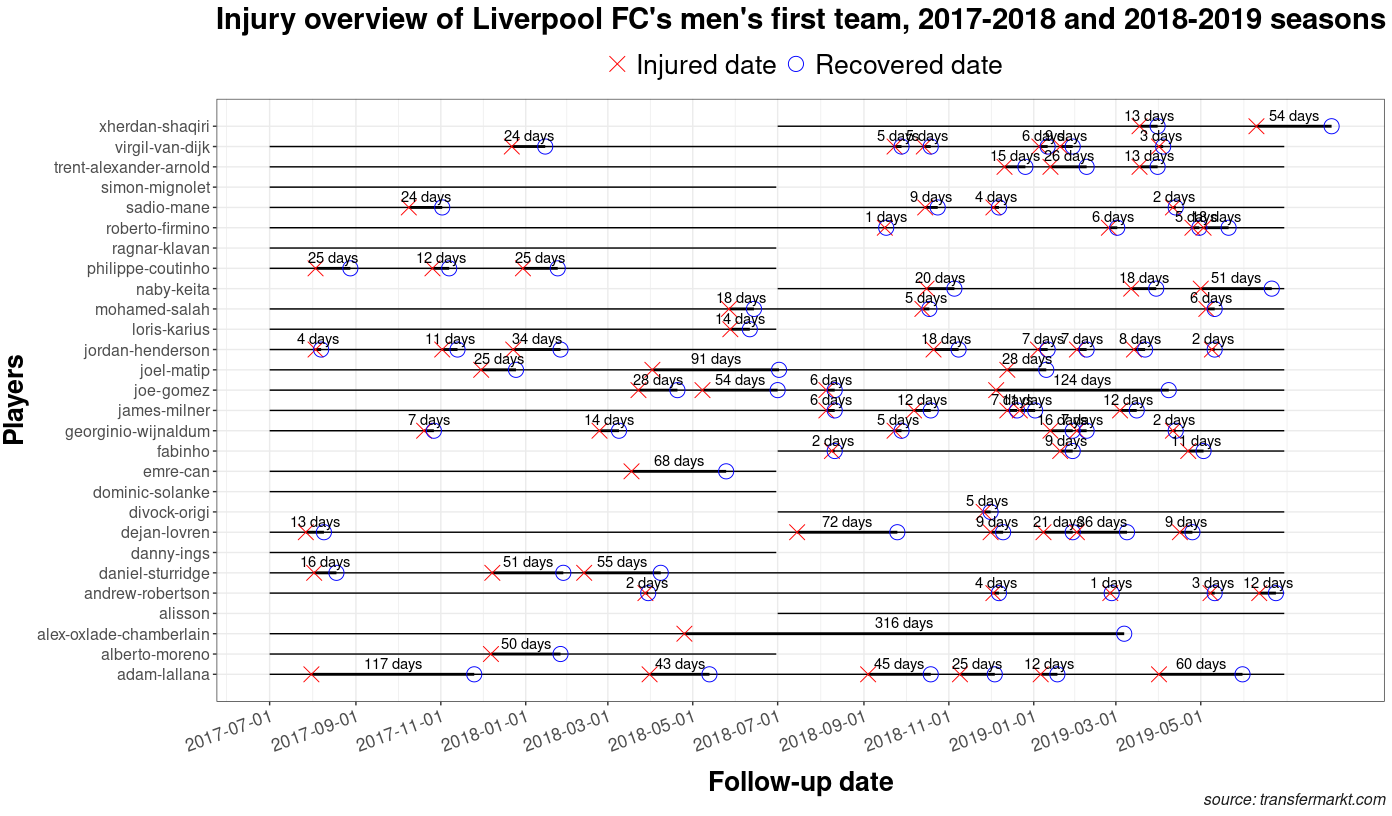
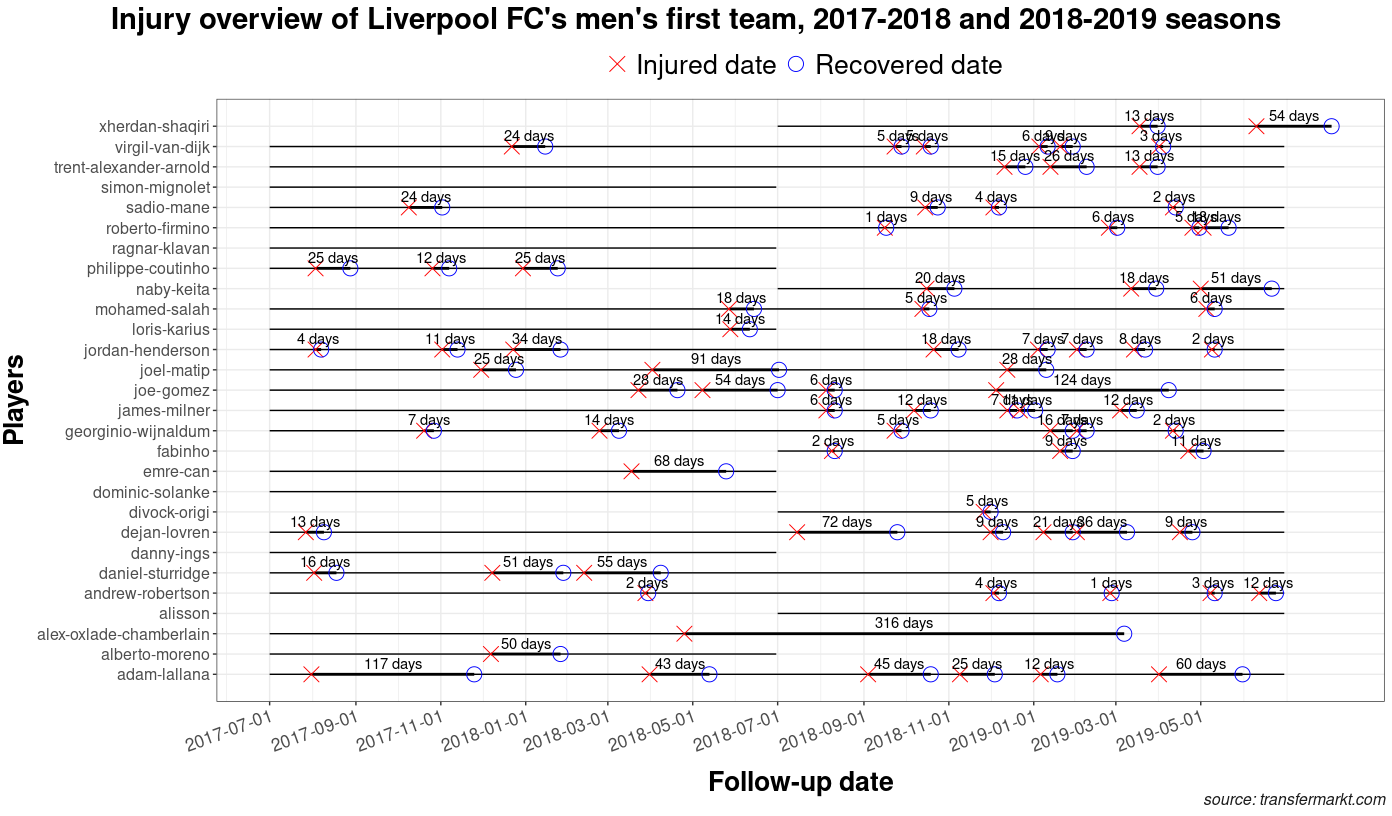
minor edit

Changed region(s): [[0.0618, 0.0, 1.0, 0.0613]]

diff --git a/README.md b/README.md
@@ -78,7 +78,8 @@ library(ggplot2)
           legend.text  = element_text(size = 20),
           legend.position = "top",
           plot.caption = element_text(face = "italic", size = 12, colour = "gray10"),
-          plot.title = element_text(face = "bold", hjust = 0.5, size = 22))
+          plot.title = element_text(face = "bold", hjust = 0.5, size = 22),
+          plot.title.position = "plot")
 )
 ```
 
